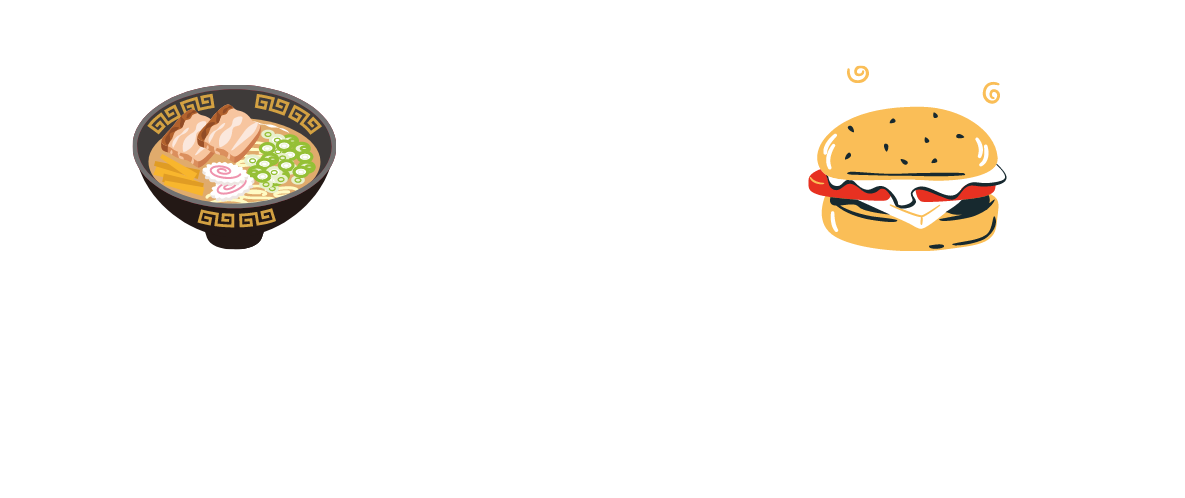
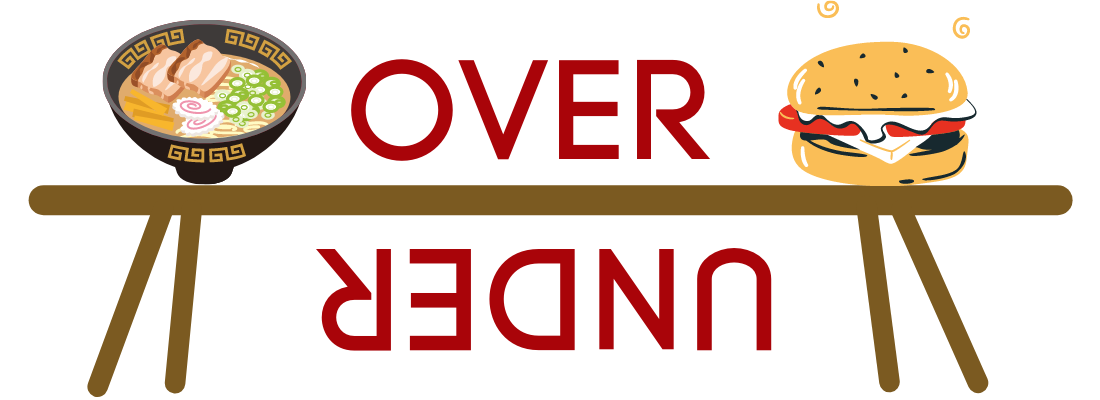
added more styling

diff --git a/src/components/Logo.js b/src/components/Logo.js
@@ -1,8 +1,11 @@
 import React from 'react'
 import {NavLink} from "react-router-dom"
 import * as Mui from "@mui/material"
-import appLogoOver from "../assets/over-and-under-over.png"
-import appLogoUnder from "../assets/over-and-under-under.png"
+import SearchIcon from '@mui/icons-material/Search';
+import MenuBookIcon from '@mui/icons-material/MenuBook';
+import FavoriteBorderIcon from '@mui/icons-material/FavoriteBorder';
+import appLogoOverBar from "../assets/over-and-under-overbar.png"
+import appLogoUnderBar from "../assets/over-and-under-underbar.png"
 
 
 function Logo({navbar, landingPage, toggleSwitch, onLandingPage, onLandingPage2, onSwitch}) {
@@ -12,21 +15,23 @@ function Logo({navbar, landingPage, toggleSwitch, onLandingPage, onLandingPage2,
     <Mui.Box sx={{ flexGrow: 1 }}>
     <Mui.AppBar  position="static" style={{paddingBottom: "10px", background: toggleSwitch ? "#9c563c" : "#A90409", transition: "all 1s"}}>
       <Mui.Toolbar variant="dense">
-        <Mui.Typography variant="h5">
-        <NavLink id="app-logo" className="navlink" to="/" onClick={() => {onLandingPage2(false)}}><img src={toggleSwitch ? appLogoUnder : appLogoOver} style={{height: "40px", width: "100px"}}/></NavLink>
+        <Mui.Typography>
+        <NavLink id="app-logo" className="navlink" to="/" onClick={() => {onLandingPage2(false)}}><img src={toggleSwitch ? appLogoUnderBar : appLogoOverBar} style={{height: "40px", width: "100px"}}/></NavLink>
         </Mui.Typography>
-        <Mui.Typography variant="h5" sx={{ flexGrow: 1 }}>
+        <Mui.Typography sx={{ flexGrow: 1 }}>
         <Mui.Switch color="default" onClick={onSwitch}/>
         </Mui.Typography>
-        <Mui.Typography variant="h5">
-        <NavLink className={navbar ? "navlink" : "navlink-hidden"} to="/search">Search</NavLink>
+        <Mui.ButtonGroup>
+        <Mui.Typography >
+        <NavLink className={navbar ? "navlink" : "navlink-hidden"} to="/search"><Mui.Tooltip title="Search"><SearchIcon style={{color: toggleSwitch ? "#D3ECA7" : "#FFFDA2", transition: "1s"}}/></Mui.Tooltip></NavLink>
         </Mui.Typography>
-        <Mui.Typography variant="h5">
-        <NavLink className={navbar ? "navlink" : "navlink-hidden"} to="/reciperesults">See Recipe Results</NavLink>
+        <Mui.Typography >
+        <NavLink className={navbar ? "navlink" : "navlink-hidden"} to="/reciperesults"><Mui.Tooltip title="See recipe results"><MenuBookIcon style={{color: toggleSwitch ? "#D3ECA7" : "#FFFDA2", transition: "1s"}}/></Mui.Tooltip></NavLink>
         </Mui.Typography>
-        <Mui.Typography variant="h5">
-        <NavLink className={landingPage ? "navlink" : "navlink-hidden"} to="/favoriterecipes" onClick={() => onLandingPage}>Favorite Recipes</NavLink>
+        <Mui.Typography >
+        <NavLink className={landingPage ? "navlink" : "navlink-hidden"} to="/favoriterecipes" onClick={() => onLandingPage}><Mui.Tooltip title="See favorite list"><FavoriteBorderIcon style={{color: toggleSwitch ? "#D3ECA7" : "#FFFDA2", transition: "1s"}}/></Mui.Tooltip></NavLink>
         </Mui.Typography>
+        </Mui.ButtonGroup>
       </Mui.Toolbar>
     </Mui.AppBar>
     </Mui.Box>

diff --git a/src/components/Homepage.js b/src/components/Homepage.js
@@ -28,8 +28,8 @@ function Homepage({ landingPage, onLandingPage, onNavbar, toggleSwitch}) {
   const handleClose = () => setOpen(false);
 
   const URL = toggleSearch ? 
-  `https://api.spoonacular.com/recipes/complexSearch?query=${advSearch.search}&cuisine=${advSearch.cuisine}&diet=${advSearch.diet}&intolerences=${advSearch.intolerence}&includeIngredients=${advSearch.ingredients}&type=${advSearch.mealType}&${toggleSwitch ? "minCarbs" : "maxCarbs"}=${advSearch.carbs}&${toggleSwitch ? "minProtein" : "maxProtein"}=${advSearch.protein}&${toggleSwitch ? "minCalories" : "maxCalories"}=${advSearch.calories}&number=12&apiKey=${APIKey4}`
-  :`https://api.spoonacular.com/recipes/complexSearch?query=${search}&minCarbs=0&minProtein=0&minCalories=0&number=12&apiKey=${APIKey4}`
+  `https://api.spoonacular.com/recipes/complexSearch?query=${advSearch.search}&cuisine=${advSearch.cuisine}&diet=${advSearch.diet}&intolerences=${advSearch.intolerence}&includeIngredients=${advSearch.ingredients}&type=${advSearch.mealType}&${toggleSwitch ? "minCarbs" : "maxCarbs"}=${advSearch.carbs}&${toggleSwitch ? "minProtein" : "maxProtein"}=${advSearch.protein}&${toggleSwitch ? "minCalories" : "maxCalories"}=${advSearch.calories}&number=12&apiKey=${APIKey3}`
+  :`https://api.spoonacular.com/recipes/complexSearch?query=${search}&minCarbs=0&minProtein=0&minCalories=0&number=12&apiKey=${APIKey3}`
 
   function handleSearch (newSearch) {
     setSearch(newSearch)
@@ -72,7 +72,7 @@ function Homepage({ landingPage, onLandingPage, onNavbar, toggleSwitch}) {
             <Mui.Typography className={landingPage ? "display-none" : ""}component="h2" variant="h2"><img src={toggleSwitch ? appLogoUnder : appLogoOver} style={{height: "120px", width: "300px"}}></img><br/>
             <Mui.Button style={{fontSize: "20px" , color: toggleSwitch ? "#9c563c" : "#A90409"}} onClick={onLandingPage}><DinnerDiningOutlinedIcon />Get Started</Mui.Button></Mui.Typography>
             <Search onSearch={handleSearch} onAdvSearch={handleAdvSearch} onToggleSearch={handleToggleSearch} onToggleAdvSearch={handleToggleAdvSearch} landingPage={landingPage} onLandingPage={onLandingPage} onNavbar={onNavbar} open={open} setOpen={setOpen} handleOpen={handleOpen} handleClose={handleClose} toggleSwitch={toggleSwitch}/>
-            <HomepageRecipes defaultRecipes={defaultRecipes} landingPage={landingPage} onLandingPage={onLandingPage}/>
+            <HomepageRecipes defaultRecipes={defaultRecipes} toggleSwitch={toggleSwitch} landingPage={landingPage} onLandingPage={onLandingPage}/>
             </Mui.Typography>
             <Mui.Stack sx={{ pt: 4 }} direction="row" spacing={2} justifyContent="center"></Mui.Stack>
           </Mui.Container>
@@ -85,7 +85,7 @@ function Homepage({ landingPage, onLandingPage, onNavbar, toggleSwitch}) {
               <RecipeContainer recipes={recipes} toggleSwitch={toggleSwitch}/>
             </Route>
             <Route path="/reciperesults/:id">
-              <RecipePage favRecipes={favRecipes}/>
+              <RecipePage favRecipes={favRecipes} toggleSwitch={toggleSwitch}/>
             </Route>
           </Switch>
         </Mui.Box>

diff --git a/src/components/page parts/RecipePage.js b/src/components/page parts/RecipePage.js
@@ -3,16 +3,19 @@ import { useParams } from "react-router-dom"
 import * as Mui from "@mui/material";
 import FavoriteIcon from '@mui/icons-material/Favorite';
 
-function RecipePage({favRecipes}) {
+function RecipePage({favRecipes, toggleSwitch}) {
 const params = useParams()
 const [recipeInfo, setRecipeInfo] = useState([])
 const [isClicked, setIsClicked] = useState(false)
 
 useEffect(() => {
-    fetch(`https://api.spoonacular.com/recipes/${params.id}/information?includeNutrition=true&apiKey=706bae3484f3466a81bd4afe4a6b402a`)
+    fetch(`https://api.spoonacular.com/recipes/${params.id}/information?includeNutrition=true&apiKey=32b53701d7d54122a094792d559f0252`)
     .then(resp => resp.json())
     .then(data => {setRecipeInfo(data)})
 }, [])
+
+console.log(recipeInfo.title)
+console.log(favRecipes)
 
     if(recipeInfo.length == 0) {return null}
     const instructionsArray = recipeInfo.instructions.replace(/<\/?[^>]+(>|$)/g, "").replace(/([.?!])\s*(?=[A-Z])/g, "$1|").split("|")
@@ -46,16 +49,16 @@ useEffect(() => {
 }
     
     return (
-    <div className="recipe-page">
+    <div className="recipe-page" style={{color: toggleSwitch ? "#632626" : "#A90409", transition: "1s"}}>
         <img src={recipeInfo.image}></img>
         <h1>{recipeInfo.title}</h1>
         <Mui.Tooltip title="Add to favorites"><Mui.Button size="small" onClick={handleClick} disabled={isClicked}><FavoriteIcon style={{color: "#FF6363"}}/></Mui.Button></Mui.Tooltip>
         <hr/>
         <h2>Nutrition Facts</h2>
-        <iframe src={`https://api.spoonacular.com/recipes/${params.id}/nutritionWidget?defaultCss=true&apiKey=706bae3484f3466a81bd4afe4a6b402a`} height="710" width="1000"></iframe>
+        <iframe src={`https://api.spoonacular.com/recipes/${params.id}/nutritionWidget?defaultCss=true&apiKey=32b53701d7d54122a094792d559f0252`} height="710" width="1000"></iframe>
         <hr/>
         <h2>Ingredients</h2>
-        <iframe src={`https://api.spoonacular.com/recipes/${params.id}/ingredientWidget?defaultCss=true&measure=metric&apiKey=706bae3484f3466a81bd4afe4a6b402a`} height="400" width="1000"></iframe>
+        <iframe src={`https://api.spoonacular.com/recipes/${params.id}/ingredientWidget?defaultCss=true&measure=metric&apiKey=32b53701d7d54122a094792d559f0252`} height="400" width="1000"></iframe>
         <hr/>
         <h2>Instructions</h2>
         <ol>
@@ -65,7 +68,7 @@ useEffect(() => {
         </ol>
         <hr/>
         <h2>Equipment</h2>
-        <iframe src={`https://api.spoonacular.com/recipes/${params.id}/equipmentWidget?defaultCss=true&apiKey=706bae3484f3466a81bd4afe4a6b402a`} height="200" width="1000"></iframe>
+        <iframe src={`https://api.spoonacular.com/recipes/${params.id}/equipmentWidget?defaultCss=true&apiKey=32b53701d7d54122a094792d559f0252`} height="200" width="1000"></iframe>
     </div>
   )
 }

diff --git a/src/components/page parts/RecipeCard.js b/src/components/page parts/RecipeCard.js
@@ -63,11 +63,12 @@ function RecipeCard({recipe, favRecipes, toggleSwitch}) {
   };
 
   return (
-    <div style={{boxShadow: "8px 8px 1px #876445"}} className="reciperesults-animation">
+    <div className="reciperesults-animation">
       <Card className="recipe-card" variant="outlined" style={{background: toggleSwitch ? "#D3ECA7" : "#FFFDA2", transition: "1s"}} sx={{ maxWidth: 305, boxShadow: 1, p: 2}}>
       <Tooltip title="View recipe"><Link className="recipecard-link"to={`/reciperesults/${recipe.id}`}><CardActionArea>
       <CardHeader className="recipecard-header"
         title={recipe.title}
+        style={{color: toggleSwitch ? "#632626" : "#A90409", transition: "1s"}}
       />
       <CardMedia
         component="img"
@@ -80,18 +81,18 @@ function RecipeCard({recipe, favRecipes, toggleSwitch}) {
         <Tooltip title="Add to favorites"><IconButton aria-label="add to favorites" disabled={isClicked}>
           <FavoriteIcon style={{color: "#FF6363"}} onClick={handleClick} />
         </IconButton></Tooltip>
-        <Typography variant="h6" style={{paddingLeft: "60px"}}><RestaurantOutlinedIcon /> Nutrition</Typography>
+        <Typography variant="h6" style={{paddingLeft: "60px", color: toggleSwitch ? "#632626" : "#A90409", transition: "1s"}}><RestaurantOutlinedIcon /> Nutrition</Typography>
         <ExpandMore
           expand={expanded}
           onClick={handleExpandClick}
           aria-expanded={expanded}
           aria-label="show more"
         >
-          <ExpandMoreIcon />
+          <ExpandMoreIcon style={{color: toggleSwitch ? "#632626" : "#A90409"}} />
         </ExpandMore>
       </CardActions>
       <Collapse in={expanded} timeout="auto" unmountOnExit>
-        <CardContent>
+        <CardContent style={{color: toggleSwitch ? "#632626" : "#A90409"}}>
           <Typography paragraph>
             <li>{recipe.nutrition.nutrients[0].name} : {recipe.nutrition.nutrients[0].amount} kcal</li>
             <li>{recipe.nutrition.nutrients[1].name} : {recipe.nutrition.nutrients[1].amount} g</li>

diff --git a/src/components/page parts/FavoriteCard.js b/src/components/page parts/FavoriteCard.js
@@ -45,12 +45,13 @@ function FavoriteCard({ recipe, toggleSwitch, onDelete }) {
   let extractedId = recipe.image.split('/recipeImages/')[1].split('-')[0]
 
   return (
-    <div style={{boxShadow: "8px 8px 1px #876445"}} className={`favoritelist favoritelist-animation-${recipe.id}`}>
+    <div className={`favoritelist favoritelist-animation-${recipe.id}`}>
       <Card variant="outlined" style={{background: toggleSwitch ? "#D3ECA7" : "#FFFDA2", transition: "1s"}} sx={{ maxWidth: 305, boxShadow: 1, p: 2}}>
       <Tooltip title="View recipe"><Link className="recipecard-link" to={`/reciperesults/${extractedId}`}><CardActionArea>
       <CardHeader
         title={recipe.title}
         className="recipecard-header"
+        style={{color: toggleSwitch ? "#632626" : "#A90409", transition: "1s"}}
       />
       <CardMedia
         component="img"
@@ -63,7 +64,7 @@ function FavoriteCard({ recipe, toggleSwitch, onDelete }) {
         <Tooltip title="Delete from favorites"><IconButton aria-label="Delete">
           <DeleteOutlineOutlinedIcon style={{color: "grey"}}onClick={handleClick}/>
         </IconButton></Tooltip>
-        <Typography variant="h6" style={{paddingLeft: "60px"}}><RestaurantOutlinedIcon /> Nutrition</Typography>
+        <Typography variant="h6" style={{paddingLeft: "60px", color: toggleSwitch ? "#632626" : "#A90409", transition: "1s"}}><RestaurantOutlinedIcon /> Nutrition</Typography>
         <ExpandMore
           expand={expanded}
           onClick={handleExpandClick}
@@ -74,7 +75,7 @@ function FavoriteCard({ recipe, toggleSwitch, onDelete }) {
         </ExpandMore>
       </CardActions>
       <Collapse in={expanded} timeout="auto" unmountOnExit>
-        <CardContent>
+        <CardContent style={{color: toggleSwitch ? "#632626" : "#A90409", transition: "1s"}}>
           <Typography paragraph>
             <li>{recipe.calorie} : {recipe.calorieAmount} kcal</li>
             <li>{recipe.protein} : {recipe.proteinAmount} g</li>

diff --git a/src/components/page parts/Search.js b/src/components/page parts/Search.js
@@ -37,13 +37,13 @@ function Search({onSearch, onAdvSearch, onToggleSearch, onToggleAdvSearch, landi
 
   return (
     <div className={landingPage ? "display-search" : "display-none-search"} style={{paddingTop: "60px"}}>
-      <Mui.Typography align="center">
+      <Mui.Typography align="center" style={{color: toggleSwitch ? "#632626" : "#A90409", transition: "1s"}}>
       <form id="form-container" onSubmit={handleSubmit}>
         <Mui.Typography variant="h6">Search for recipes ( ˘▽˘)っ♨</Mui.Typography>
-        <Mui.TextField id="filled-basic" label="Search" variant="standard" value={search}  onChange={e => setSearch(e.target.value)}/>
+        <Mui.TextField style={{color: toggleSwitch ? "#632626" : "#A90409", transition: "1s"}} id="filled-basic" label="Search" variant="standard" value={search}  onChange={e => setSearch(e.target.value)}/>
         <Mui.Tooltip title="Advanced search"><SettingsIcon onClick={handleOpen}/></Mui.Tooltip>
         <Mui.Fab type="submit" style={{background: toggleSwitch ? "#D3ECA7" : "#FFFDA2", transition: "1s"}} onClick={onToggleSearch} size="small">
-          <SearchIcon />
+          <SearchIcon style={{color: toggleSwitch ? "#632626" : "#A90409", transition: "1s"}}/>
         </Mui.Fab>
       </form>
       <Modal

diff --git a/src/components/HomepageRecipes.js b/src/components/HomepageRecipes.js
@@ -4,14 +4,14 @@ import * as Mui from "@mui/material";
 import Carousel from "react-bootstrap/Carousel";
 import "bootstrap/dist/css/bootstrap.min.css";
 
-function HomepageRecipes({ defaultRecipes, landingPage, onLandingPage}) {
+function HomepageRecipes({ defaultRecipes, landingPage, onLandingPage, toggleSwitch}) {
 
   const recipeCarousel = defaultRecipes.map(recipe => {
     return <Carousel.Item key={recipe.recipeId}>
       <img className="d-block w-100" style={{textShadow: "1px black"}} src={recipe.image} alt={recipe.title}/>
-      <Carousel.Caption>
+      <Carousel.Caption style={{color: toggleSwitch ? "#D3ECA7" : "#FFFDA2", transition: "1s"}}>
         <h3>{recipe.title}</h3>
-        <Link style={{textDecoration: "none"}} to={`/reciperesults/${recipe.recipeId}`}><Mui.Button style={{color: "white"}} style={{fontSize: "20px", color: "white"}} onClick={onLandingPage}>View</Mui.Button></Link>
+        <Link style={{textDecoration: "none"}} to={`/reciperesults/${recipe.recipeId}`}><Mui.Button style={{fontSize: "20px", color: toggleSwitch ? "#D3ECA7" : "#FFFDA2", transition: "1s"}} onClick={onLandingPage}>View</Mui.Button></Link>
       </Carousel.Caption>
     </Carousel.Item>
   })
